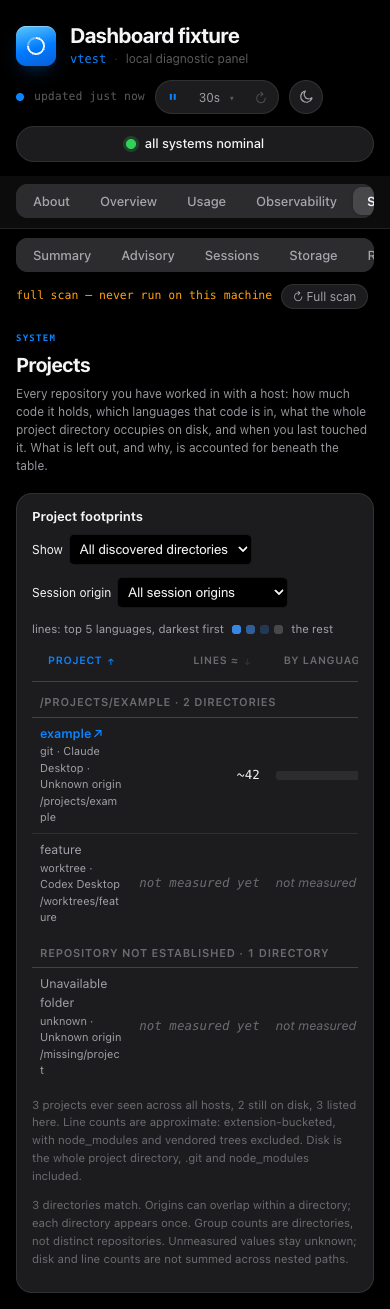
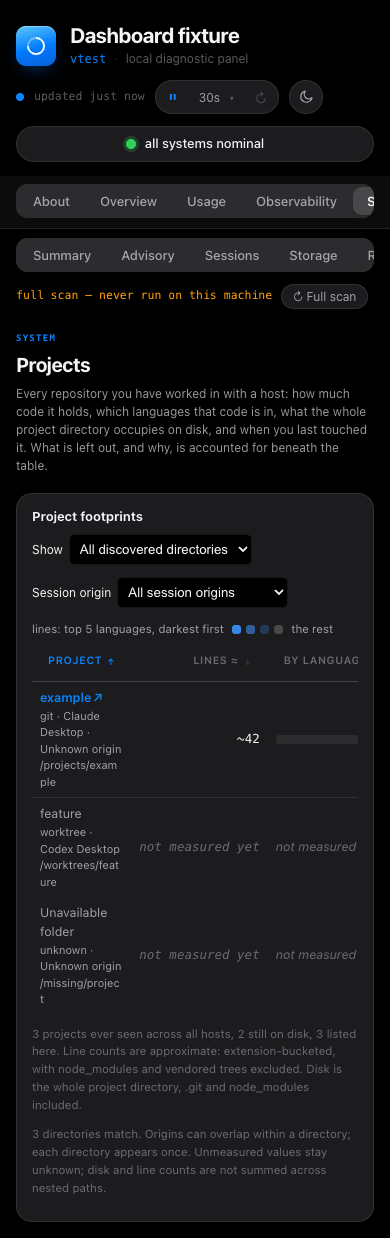
refactor(projects): remove redundant directory group headings

diff --git a/docs/adr/0050-dashboard-project-identity-and-context-reporting.md b/docs/adr/0050-dashboard-project-identity-and-context-reporting.md
@@ -44,7 +44,8 @@ The System Projects default keeps its existing measured population. An additive
 lightweight discovery catalog exposes excluded and missing paths without adding
 expensive disk walks. The all-discovered view joins measurements by path, so each
 path appears once. Unknown measurements are not zero. Existing ever-seen/on-disk
-counts remain unchanged; group counts describe directories. Disk and LOC are not
+counts remain unchanged. Rows retain their details without repeated directory-path
+headings. Disk and LOC are not
 summed across overlapping parent/child paths.
 
 Maintenance project cards preserve their installation counts and navigation.
